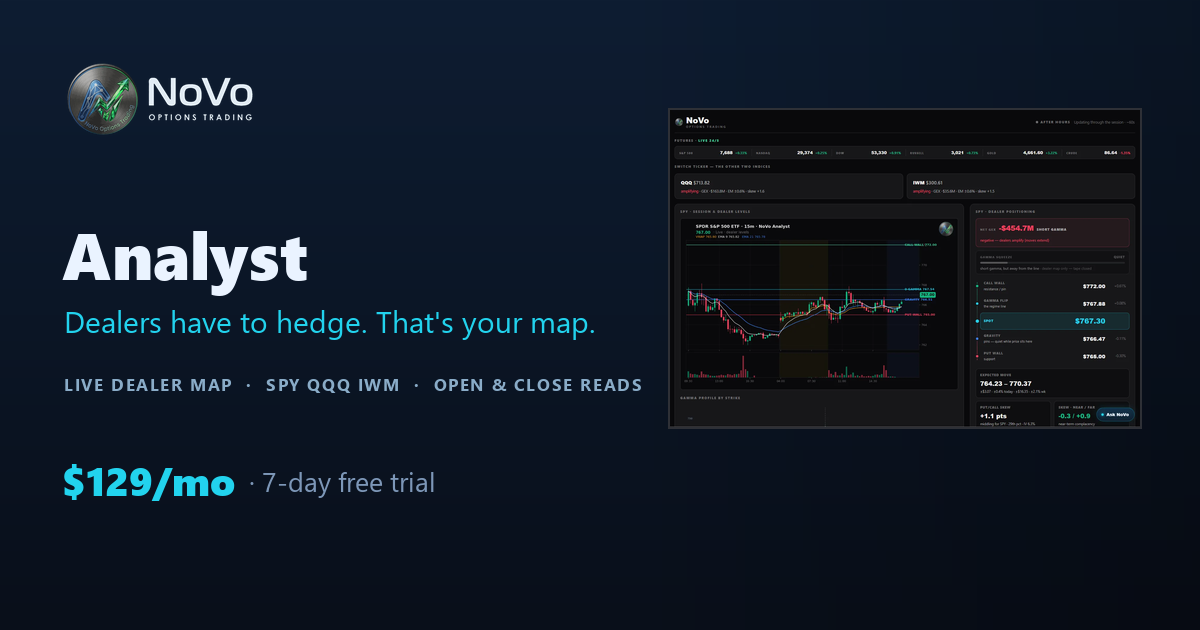
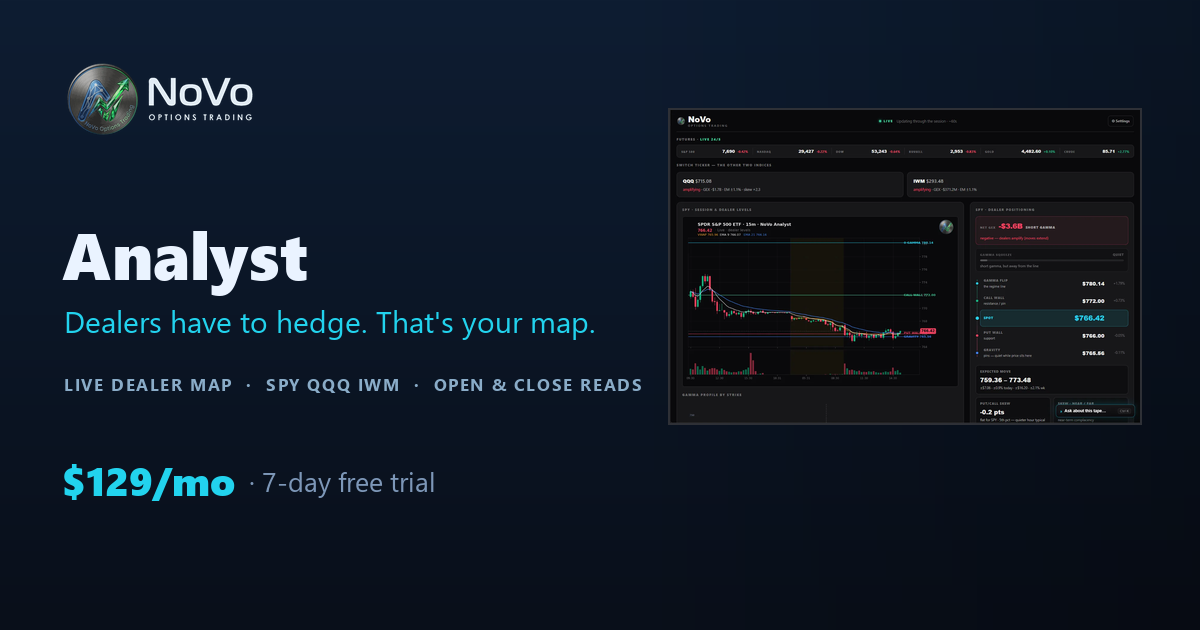
Marketing catches up with the terminal: VP/HA/split in copy, closing-bell hero shot
Jake: handle it. Today's chart features were invisible to the pages.

- HERO SHOT: fresh capture of the terminal at literally the closing
  bell (16:00:33 AFT-HRS badge) -- split view SPY|QQQ, session volume
  profile beside the labelled walls, spelled-out toolbar with SPLIT and
  VOLUME PROFILE lit, and the intel strip populated with the session's
  REAL redis values (risk-off, -42.3% tape, -0.5B GEX, VIX 14.86) --
  measured numbers, not props. Alt rewritten, ?v=4.
- /trader copy: the how-card now sells split view, Heikin Ashi, and the
  canvas controls, plus a new paragraph for the category claim only
  this product can make: the session volume profile drawn beside the
  dealer walls needs the auction AND the positioning on one pane.
  Hero chips gain VP and split/HA; the feature list's stale speed
  bullet becomes the terminal bullet.
- plans/index/analyst: terminal bullet added; the analyst upsell pitch
  carries VP + split.
- COMPARE tables (spotgamma, menthorq, unusual-whales): new 'Charting
  terminal included' row -- a clean Yes vs dash after today.
- THIRD residual speed-claim phrasing found and killed: 'chart
  10x/second' / 'up to 10 updates a second' survived both prior sweeps
  in 6 spots (trader chips + feature lists, analyst, plans, two compare
  pages). Site now has zero pre-50ms claims in any phrasing.
- og-trader: strip gains VOLUME PROFILE, card rebuilt on the new hero
  shot; og:image bumped v=8 for re-scrape.

diff --git a/public/trader.html b/public/trader.html
@@ -36,7 +36,7 @@ j.src='https://www.googletagmanager.com/gtm.js?id='+i+dl;f.parentNode.insertBefo
 <link rel="icon" href="/icon-192.png?v=7">
 <link rel="apple-touch-icon" href="/apple-touch-icon.png?v=5">
 <meta name="theme-color" content="#121316">
-<meta property="og:image" content="https://novo-options.trade/og-trader.png?v=7">
+<meta property="og:image" content="https://novo-options.trade/og-trader.png?v=8">
 <meta property="og:image:width" content="1200">
 <meta property="og:image:height" content="630">
 <meta name="twitter:card" content="summary_large_image">
@@ -44,7 +44,7 @@ j.src='https://www.googletagmanager.com/gtm.js?id='+i+dl;f.parentNode.insertBefo
 <meta name="twitter:creator" content="@0dte_NoVo">
 <meta name="twitter:title" content="NoVo | SPY, QQQ & IWM Scalping Made Easy — The Live Dealer Map">
 <meta name="twitter:description" content="Every dealer level on SPY, QQQ & IWM drawn on a live chart as it moves, with NoVo's hourly audit and its own record on the setup in front of you.">
-<meta name="twitter:image" content="https://novo-options.trade/og-trader.png?v=7">
+<meta name="twitter:image" content="https://novo-options.trade/og-trader.png?v=8">
 <link rel="canonical" href="https://novo-options.trade/trader">
 <link rel="preconnect" href="https://fonts.googleapis.com">
 <link rel="preconnect" href="https://fonts.gstatic.com" crossorigin>
@@ -59,7 +59,7 @@ j.src='https://www.googletagmanager.com/gtm.js?id='+i+dl;f.parentNode.insertBefo
       "name": "NoVo Options Trading",
       "url": "https://novo-options.trade",
       "logo": "https://novo-options.trade/novo-logo.png",
-      "image": "https://novo-options.trade/og-trader.png?v=7",
+      "image": "https://novo-options.trade/og-trader.png?v=8",
       "description": "Trader draws every dealer level on SPY, QQQ & IWM on a live chart as it moves — gamma flip, call and put walls, VWAP, expected move — with NoVo's hourly structural audit and its own logged record on the setup beside it.",
       "email": "support@novo-options.trade",
       "sameAs": [
@@ -86,7 +86,7 @@ j.src='https://www.googletagmanager.com/gtm.js?id='+i+dl;f.parentNode.insertBefo
       "applicationCategory": "FinanceApplication",
       "operatingSystem": "Web",
       "description": "SPY, QQQ & IWM options scalping made easy — an AI market analyst that draws every dealer level on your live chart, reads the tape all day, audits the structure every hour, and shows what its own record says the setup has done before.",
-      "image": "https://novo-options.trade/og-trader.png?v=7",
+      "image": "https://novo-options.trade/og-trader.png?v=8",
       "url": "https://novo-options.trade",
       "sameAs": [
         "https://x.com/0dte_NoVo",
@@ -541,7 +541,7 @@ height="0" width="0" style="display:none;visibility:hidden"></iframe></noscript>
     <p class="hero-tagline">Three tickers &nbsp;&middot;&nbsp; <b style="color:#22d3ee;">every dealer level</b>, drawn and labelled, <b>while it moves</b></p>
     <p>NoVo Options Trading is built for <b style="color:#22d3ee;">0DTE scalpers</b>, on the three biggest markets there are &mdash; SPY, QQQ, IWM &mdash; <b style="color:var(--txt1);">you pick your tape, you trade its levels</b>. On the chart nobody else makes: <b style="color:var(--txt1);">every dealer level living on the candles as they print</b> &mdash; the one TradingView wishes it had. Built for scalpers and day traders tired of staring at five charts, tracking every data stream, and <b style="color:var(--txt1);">still not knowing where the level actually is</b>.</p>
     <p style="max-width:700px;margin:20px auto 30px;font-size:clamp(16px,2.3vw,21px);font-weight:600;color:var(--txt1);line-height:1.55;">Your <b style="color:#22d3ee;">unfair advantage</b>: the dealer positioning you can&rsquo;t track by hand, <b style="color:var(--green);">recomputed every ~5 seconds and drawn on a live scalping chart</b>, with <b style="color:var(--green);">every price tick on your screen ~50&nbsp;milliseconds after it prints</b>. Gamma flip, call and put walls, VWAP and the session levels labelled in the pane &mdash; and beside them, <b style="color:var(--green);">NoVo&rsquo;s hourly audit</b> and what its own record says this setup has done before.</p>
-    <div class="hero-chips" aria-label="What Trader adds"><span class="hero-chip">Dealer levels on the chart</span><span class="hero-chip">Price up to 10&times;/second</span><span class="hero-chip">1-minute to weekly &middot; 15 years deep</span><span class="hero-chip">Draw on it &mdash; trends, fibs, your levels</span><span class="hero-chip">24/5 with session shading</span><span class="hero-chip">Hourly audit</span><span class="hero-chip">The three books, side by side</span><span class="hero-chip">Its own record on the setup</span><span class="hero-chip">Read on demand</span><span class="hero-chip">SPY / QQQ / IWM &mdash; one click apart</span></div>
+    <div class="hero-chips" aria-label="What Trader adds"><span class="hero-chip">Dealer levels on the chart</span><span class="hero-chip">Every tick, ~50 ms off the tape</span><span class="hero-chip">1-minute to weekly &middot; 15 years deep</span><span class="hero-chip">Draw on it &mdash; trends, fibs, your levels</span><span class="hero-chip">Volume profile beside the walls</span><span class="hero-chip">Split view &middot; Heikin Ashi</span><span class="hero-chip">24/5 with session shading</span><span class="hero-chip">Hourly audit</span><span class="hero-chip">The three books, side by side</span><span class="hero-chip">Its own record on the setup</span><span class="hero-chip">Read on demand</span><span class="hero-chip">SPY / QQQ / IWM &mdash; one click apart</span></div>
     <a href="#ask-novo" class="hero-ask" style="display:inline-flex;align-items:center;gap:9px;margin:0 auto 26px;padding:11px 20px;border-radius:999px;text-decoration:none;border:1px solid rgba(34,211,238,.38);background:linear-gradient(180deg,rgba(34,211,238,.10),rgba(34,211,238,.03));color:var(--txt1);font-size:14px;font-weight:600;line-height:1.35;max-width:640px;text-align:left;box-shadow:0 0 26px -10px rgba(34,211,238,.55);"><span style="font-size:17px;line-height:1;">🧭</span><span><b style="color:#22d3ee;">NoVo</b> &mdash; the AI market analyst in your pocket. The answers you can&rsquo;t find in a search engine.</span></a>
     <div class="hero-cta">
       <a href="/plans" class="btn-secondary trader-glow" style="border-color:#10b981;color:#10b981;text-decoration:none;">Subscribe to Trader &mdash; $209/mo &rarr;</a>
@@ -612,7 +612,7 @@ nav { position: relative; }
 </style>
 
     <div class="hero-mashup">
-      <div class="hm-back"><img src="/screenshots/trader-live-desk.webp?v=3" width="1905" height="1046" alt="The Trader terminal &mdash; the live SPY 1-minute chart with every level price-labelled in the pane: put wall, gravity, opening range, pre-market and prior-day levels &mdash; under the intel strip: macro regime, retail state, relative volume, tape imbalance, net GEX in a live short-gamma regime, the gamma-squeeze gauge and the Analyst Score &mdash; beside the options-flow rail with put/call volume, unusual strikes, and the aggressor-tagged sweeps-and-blocks print tape" loading="eager" fetchpriority="high" decoding="async"></div>
+      <div class="hm-back"><img src="/screenshots/trader-live-desk.webp?v=4" width="1905" height="1047" alt="The Trader terminal in split view at the close &mdash; SPY's live 1-minute chart with the session volume profile drawn beside the dealer levels (put wall, gravity, opening range, pre-market and prior-day levels, every one price-labelled), QQQ in the second pane against its own put wall and gravity, the full toolbar (timeframes 1m to weekly, drawing tools, Heikin Ashi, volume profile, split view, canvas settings) and the intel strip: macro regime, retail state, relative volume, tape imbalance, net GEX, gamma squeeze, Analyst Score and VIX" loading="eager" fetchpriority="high" decoding="async"></div>
       <div class="hm-fan">
         <div class="hm-card" style="transform:rotate(-11deg) ;z-index:4;"><img src="/screenshots/trader-live-chart.webp?v=3" width="529" height="1046" alt="Trader on a phone &mdash; the chart tab &mdash; the live 1-minute chart with the put wall, gravity, opening-range and pre-market levels drawn and the short-gamma read pinned to the pane, with Market Intel beneath: VIX, macro regime, retail state, relative volume, tape imbalance, net GEX, the gamma-squeeze bar and the Analyst Score" loading="lazy" decoding="async"></div>
         <div class="hm-card" style="transform:rotate(9deg) translateY(16px);z-index:3;margin-left:-46px;"><img src="/screenshots/trader-live-analysis.webp?v=2" width="500" height="1047" alt="Trader on a phone &mdash; the analysis tab &mdash; the top-of-hour structural audit with its bias, identified levels, observed patterns and written thesis, NoVo's pre-market primer, and 'The Line' level-break playbook" loading="lazy" decoding="async"></div>
@@ -789,7 +789,7 @@ nav { position: relative; }
     <p class="section-sub">Four things happen on one screen, all session: the dealer levels get drawn on the tape as they move, the hour gets audited, the record gets shown beside the setup, and you can ask for a fresh read any time you want one.</p>
     <div class="how-card" style="margin-bottom:20px;">
       <div class="how-num">YOUR TAPE</div>
-      <h3>Pick SPY, QQQ or IWM. The rest is drawn for you, every ~5 seconds.</h3> <p>Three of the most liquid options markets anywhere, and every signal layer tuned for these three and nothing else. The structure recomputes every ~5 seconds; the price under it carries every tick, within ~50 milliseconds of the print &mdash; on a live candle chart, not a table of numbers to translate, and not a morning PDF that stopped being true at the open.</p> <p>And it is a real charting terminal: <strong>one click flips the ticker</strong>, six timeframes run from 1-minute scalps to <strong>fifteen years of weekly bars</strong>, extended hours are shaded so the overnight tape reads at a glance, volume sits under the candles, and your own <strong>trendlines, fibs and levels</strong> draw straight onto the dealer map and stay where you left them, per ticker. The chart trades 24/5 &mdash; Sunday night included &mdash; because the market does.</p>
+      <h3>Pick SPY, QQQ or IWM. The rest is drawn for you, every ~5 seconds.</h3> <p>Three of the most liquid options markets anywhere, and every signal layer tuned for these three and nothing else. The structure recomputes every ~5 seconds; the price under it carries every tick, within ~50 milliseconds of the print &mdash; on a live candle chart, not a table of numbers to translate, and not a morning PDF that stopped being true at the open.</p> <p>And it is a real charting terminal: <strong>one click flips the ticker</strong>, six timeframes run from 1-minute scalps to <strong>fifteen years of weekly bars</strong>, extended hours are shaded so the overnight tape reads at a glance, volume sits under the candles, and your own <strong>trendlines, fibs and levels</strong> draw straight onto the dealer map and stay where you left them, per ticker. <strong>Split view</strong> puts a second index beside your chart against its own dealer structure, <strong>Heikin Ashi</strong> is one click, and the canvas is yours &mdash; log or linear scale, zoom anchored to the cursor or pinned to the live price. The chart trades 24/5 &mdash; Sunday night included &mdash; because the market does.</p> <p>Then the layer no charting platform has: the <strong>session volume profile drawn beside the dealer walls</strong>. Where the day's volume actually traded, next to where the dealers are positioned &mdash; when the profile&rsquo;s point of control and the put wall agree on a price, you see it on one pane, live. That overlay requires both halves &mdash; the auction and the positioning &mdash; and only this terminal has both.</p>
     </div>
     <div class="how-grid-2">
       <div class="how-card">
@@ -1090,7 +1090,7 @@ nav { position: relative; }
 <div class="price-roi" style="color:var(--green);">All-in &mdash; market data included, nothing else to subscribe to.</div>
       <ul class="price-features" style="column-count:2;column-gap:44px;max-width:820px;margin-left:auto;margin-right:auto;text-align:left;">
         <li>The live dealer map &mdash; recomputed every ~5 seconds, streaming on a candle chart</li>
-        <li>Price at tape speed &mdash; up to 10 updates a second</li>
+        <li>Full charting terminal &mdash; <b>session volume profile</b>, Heikin Ashi, split view, drawings, 1m&ndash;weekly</li>
         <li><b style="color:#22d3ee;">Includes Analyst</b> — daily reads + the live SPY/QQQ/IWM dealer dashboard</li>
         <li>Fast lane — dealer read every 5 seconds, every price tick within ~50 ms</li>
         <li>Every level labelled with its price, in the pane</li>

diff --git a/public/compare-novo-vs-menthorq.html b/public/compare-novo-vs-menthorq.html
@@ -366,7 +366,7 @@ height="0" width="0" style="display:none;visibility:hidden"></iframe></noscript>
 </div>
 
 <div class="container sec" style="padding-top:14px;">
-  <div class="prose"><p>Both tools map dealer options positioning &mdash; net gamma exposure (GEX), the gamma-flip level, and the call/put walls that tend to define where price pins and breaks. And both data tiers cost <b>exactly $129/mo</b>, which makes this the closest like-for-like comparison in the category. MenthorQ is the broader product and puts its levels on more platforms; NoVo covers <b>SPY, QQQ and IWM only</b>, refreshes every 60 seconds, and is the only one of the two that <b>keeps a public score</b> of what its own map has meant. Here&rsquo;s an honest, specific comparison.</p><div class="cmp-wrap"><table class="cmp"><thead><tr><th class="rowh"></th><th>NoVo</th><th>MenthorQ</th></tr></thead><tbody><tr><th class="rowh">Focus</th><td class="us">0DTE scalping on SPY / QQQ / IWM</td><td>Dealer levels + trading models, broad market</td></tr><tr><th class="rowh">Tickers</th><td class="us">SPY, QQQ, IWM</td><td>Stocks, ETFs, indices, futures, crypto</td></tr><tr><th class="rowh">Data-tier price</th><td class="us">$129/mo (Analyst)</td><td>$129/mo (Premium) &rarr; $349/mo (Pro)</td></tr><tr><th class="rowh">Dealer-map refresh</th><td class="us"><span class="yes">Every 60 seconds</span> &mdash; 5 seconds on Trader</td><td>TradingView levels 14+ times a day; end-of-day twice daily</td></tr><tr><th class="rowh">A live streaming map</th><td class="us"><span class="yes">Yes</span> &mdash; on a live candle chart</td><td><span class="no">No</span> &mdash; analytics only</td></tr><tr><th class="rowh">Published track record</th><td class="us"><span class="yes">Yes</span> &mdash; scored, sample size shown</td><td>&mdash;</td></tr><tr><th class="rowh">Charting integrations</th><td class="us">Free TradingView script</td><td>10+ &mdash; TradingView, NinjaTrader and more</td></tr><tr><th class="rowh">Education &amp; community</th><td class="us">The NoVo Journal &mdash; 1,000+ articles</td><td>350+ academy lessons; mentorship on Pro</td></tr><tr><th class="rowh">An AI analyst that reads the map</th><td class="us"><span class="yes">NoVo</span> &mdash; answers off the live map, cites what it used, and states the sample size behind any rate it quotes. Included with every plan.</td><td>&mdash;</td></tr><tr><th class="rowh">What happened last time dealers sat like this</th><td class="us"><span class="yes">Scored analogues and base rates</span> &mdash; the same setup looked up across the logged sessions, with n shown on every figure</td><td>&mdash;</td></tr><tr><th class="rowh">Best for</th><td class="us">0DTE index scalpers who want the map <i>live</i> on the tape</td><td>Traders wanting levels across many platforms, plus coaching</td></tr></tbody></table></div><div style="display:flex;flex-wrap:wrap;gap:10px;margin:20px 0 6px;"><a class="btn btn-p" href="/plans" style="display:inline-flex;align-items:center;gap:8px;font-weight:800;font-size:14.5px;text-decoration:none;padding:12px 20px;border-radius:10px;background:linear-gradient(180deg,#34d399,#10b981);color:#04120c;">See the map live &mdash; Trader $209/mo, 7-day money-back &rarr;</a><a class="btn btn-s" href="/plans" style="display:inline-flex;align-items:center;gap:8px;font-weight:700;font-size:14.5px;text-decoration:none;padding:12px 20px;border-radius:10px;background:transparent;color:#eaf3ff;border:1px solid #2e3036;">Just the read &mdash; 7-day free trial, $129/mo &rarr;</a></div><h2>What MenthorQ does well</h2><p>Breadth and reach. MenthorQ models levels across stocks, ETFs, indices, futures and crypto rather than three index ETFs, and it ships <b>10+ integrations</b> &mdash; TradingView, NinjaTrader and others &mdash; so the levels land on whatever chart you already trade. It pairs that with a large education library (350+ academy lessons and guides) and an active community, and discounts the first month to $39. If you trade a wide watchlist across several platforms, that covers ground NoVo does not.</p><p>One thing worth knowing before you upgrade: MenthorQ&rsquo;s <b>$349 Pro tier is mostly coaching</b> &mdash; mentorship meetings, live trading sessions, a monthly strategy session and recordings &mdash; rather than a better or faster map. If you assumed the step up buys more data, check that against what you actually need.</p><h2>Where NoVo is different</h2><p>Two things, and the first is <b>cadence</b>. NoVo republishes the full dealer map <b>every 60 seconds</b> on the Analyst dashboard, and the Trader dashboard reads it <b>every 5 seconds</b> with a chart that carries every tick within ~50 milliseconds. MenthorQ&rsquo;s TradingView intraday indicator updates <b>14+ times per day</b>, the end-of-day version twice daily. For swing and positional work that is plenty. For 0DTE, where the flip can move through your strike inside a single candle, it is a different instrument.</p><p>The second is that NoVo <b>keeps score</b>. MenthorQ shows you the level; NoVo shows you the level and what it has resolved to before. NoVo also publishes a <a href="/track-record">scored track record</a>: <span data-live-sessions>1,031</span> sessions graded across 23,953 snapshots, with the sample size on every claim, including the unflattering ones. The figures and the method are on the <a href="/track-record">track record</a>. Ask any tool you are comparing for its hit rate <i>and</i> the n behind it.</p><h2>Which should you pick</h2><p>If you want dealer levels on many tickers, on the charting platform you already use, with a deep education library, MenthorQ is the broader buy at the same price. If you scalp 0DTE on SPY, QQQ or IWM and want a map that moves at the speed the tape moves &mdash; with a public score on what its levels have actually meant &mdash; NoVo is the closer fit. They are less two versions of one product than two different answers to &ldquo;what should $129 buy me?&rdquo; See <a href="/analyst">Analyst</a> for the read, or <a href="/trader">Trader</a> for the same map streaming at tape speed.</p></div>
+  <div class="prose"><p>Both tools map dealer options positioning &mdash; net gamma exposure (GEX), the gamma-flip level, and the call/put walls that tend to define where price pins and breaks. And both data tiers cost <b>exactly $129/mo</b>, which makes this the closest like-for-like comparison in the category. MenthorQ is the broader product and puts its levels on more platforms; NoVo covers <b>SPY, QQQ and IWM only</b>, refreshes every 60 seconds, and is the only one of the two that <b>keeps a public score</b> of what its own map has meant. Here&rsquo;s an honest, specific comparison.</p><div class="cmp-wrap"><table class="cmp"><thead><tr><th class="rowh"></th><th>NoVo</th><th>MenthorQ</th></tr></thead><tbody><tr><th class="rowh">Focus</th><td class="us">0DTE scalping on SPY / QQQ / IWM</td><td>Dealer levels + trading models, broad market</td></tr><tr><th class="rowh">Tickers</th><td class="us">SPY, QQQ, IWM</td><td>Stocks, ETFs, indices, futures, crypto</td></tr><tr><th class="rowh">Data-tier price</th><td class="us">$129/mo (Analyst)</td><td>$129/mo (Premium) &rarr; $349/mo (Pro)</td></tr><tr><th class="rowh">Dealer-map refresh</th><td class="us"><span class="yes">Every 60 seconds</span> &mdash; 5 seconds on Trader</td><td>TradingView levels 14+ times a day; end-of-day twice daily</td></tr><tr><th class="rowh">A live streaming map</th><td class="us"><span class="yes">Yes</span> &mdash; on a live candle chart</td><td><span class="no">No</span> &mdash; analytics only</td></tr><tr><th class="rowh">Charting terminal included</th><td class="us"><span class="yes">Yes</span> &mdash; 1m&ndash;weekly candles, session volume profile beside the dealer walls, Heikin Ashi, split view, your own drawings</td><td>No &mdash; levels export to YOUR platform</td></tr><tr><th class="rowh">Published track record</th><td class="us"><span class="yes">Yes</span> &mdash; scored, sample size shown</td><td>&mdash;</td></tr><tr><th class="rowh">Charting integrations</th><td class="us">Free TradingView script</td><td>10+ &mdash; TradingView, NinjaTrader and more</td></tr><tr><th class="rowh">Education &amp; community</th><td class="us">The NoVo Journal &mdash; 1,000+ articles</td><td>350+ academy lessons; mentorship on Pro</td></tr><tr><th class="rowh">An AI analyst that reads the map</th><td class="us"><span class="yes">NoVo</span> &mdash; answers off the live map, cites what it used, and states the sample size behind any rate it quotes. Included with every plan.</td><td>&mdash;</td></tr><tr><th class="rowh">What happened last time dealers sat like this</th><td class="us"><span class="yes">Scored analogues and base rates</span> &mdash; the same setup looked up across the logged sessions, with n shown on every figure</td><td>&mdash;</td></tr><tr><th class="rowh">Best for</th><td class="us">0DTE index scalpers who want the map <i>live</i> on the tape</td><td>Traders wanting levels across many platforms, plus coaching</td></tr></tbody></table></div><div style="display:flex;flex-wrap:wrap;gap:10px;margin:20px 0 6px;"><a class="btn btn-p" href="/plans" style="display:inline-flex;align-items:center;gap:8px;font-weight:800;font-size:14.5px;text-decoration:none;padding:12px 20px;border-radius:10px;background:linear-gradient(180deg,#34d399,#10b981);color:#04120c;">See the map live &mdash; Trader $209/mo, 7-day money-back &rarr;</a><a class="btn btn-s" href="/plans" style="display:inline-flex;align-items:center;gap:8px;font-weight:700;font-size:14.5px;text-decoration:none;padding:12px 20px;border-radius:10px;background:transparent;color:#eaf3ff;border:1px solid #2e3036;">Just the read &mdash; 7-day free trial, $129/mo &rarr;</a></div><h2>What MenthorQ does well</h2><p>Breadth and reach. MenthorQ models levels across stocks, ETFs, indices, futures and crypto rather than three index ETFs, and it ships <b>10+ integrations</b> &mdash; TradingView, NinjaTrader and others &mdash; so the levels land on whatever chart you already trade. It pairs that with a large education library (350+ academy lessons and guides) and an active community, and discounts the first month to $39. If you trade a wide watchlist across several platforms, that covers ground NoVo does not.</p><p>One thing worth knowing before you upgrade: MenthorQ&rsquo;s <b>$349 Pro tier is mostly coaching</b> &mdash; mentorship meetings, live trading sessions, a monthly strategy session and recordings &mdash; rather than a better or faster map. If you assumed the step up buys more data, check that against what you actually need.</p><h2>Where NoVo is different</h2><p>Two things, and the first is <b>cadence</b>. NoVo republishes the full dealer map <b>every 60 seconds</b> on the Analyst dashboard, and the Trader dashboard reads it <b>every 5 seconds</b> with a chart that carries every tick within ~50 milliseconds. MenthorQ&rsquo;s TradingView intraday indicator updates <b>14+ times per day</b>, the end-of-day version twice daily. For swing and positional work that is plenty. For 0DTE, where the flip can move through your strike inside a single candle, it is a different instrument.</p><p>The second is that NoVo <b>keeps score</b>. MenthorQ shows you the level; NoVo shows you the level and what it has resolved to before. NoVo also publishes a <a href="/track-record">scored track record</a>: <span data-live-sessions>1,031</span> sessions graded across 23,953 snapshots, with the sample size on every claim, including the unflattering ones. The figures and the method are on the <a href="/track-record">track record</a>. Ask any tool you are comparing for its hit rate <i>and</i> the n behind it.</p><h2>Which should you pick</h2><p>If you want dealer levels on many tickers, on the charting platform you already use, with a deep education library, MenthorQ is the broader buy at the same price. If you scalp 0DTE on SPY, QQQ or IWM and want a map that moves at the speed the tape moves &mdash; with a public score on what its levels have actually meant &mdash; NoVo is the closer fit. They are less two versions of one product than two different answers to &ldquo;what should $129 buy me?&rdquo; See <a href="/analyst">Analyst</a> for the read, or <a href="/trader">Trader</a> for the same map streaming at tape speed.</p></div>
   <p class="disclaim">Comparison for information only — not financial advice. Competitor details and prices verified against public sources in August 2026 and may change; verify with each provider. NoVo is our product.</p>
 </div>
 

diff --git a/public/compare-novo-vs-spotgamma.html b/public/compare-novo-vs-spotgamma.html
@@ -373,7 +373,7 @@ height="0" width="0" style="display:none;visibility:hidden"></iframe></noscript>
 <tr><th class="rowh">Tickers</th><td class="us">SPY, QQQ, IWM</td><td>Indices + thousands of equities (Equity Hub)</td></tr>
 <tr><th class="rowh">Dealer map<br><span style="font-weight:400;color:var(--txt3);font-size:12px">net GEX, flip, walls, expected move</span></th><td class="us"><span class="yes">Yes</span> — live</td><td><span class="yes">Yes</span> — Key Levels, TRACE</td></tr>
 <tr><th class="rowh">Live options flow</th><td class="us"><span class="yes">Yes</span> — in-house tape (Analyst)</td><td>HIRO — typically the top (Alpha) tier</td></tr>
-<tr><th class="rowh">Dealer-map refresh</th><td class="us"><span class="yes">Every 60 seconds</span> &mdash; 5 seconds on Trader, chart 10&times;/second</td><td>Key Levels and TRACE, refreshed far less often</td></tr><tr><th class="rowh">A live streaming map</th><td class="us"><span class="yes">Yes</span> — on a live candle chart</td><td class="no">No — analytics only</td></tr>
+<tr><th class="rowh">Dealer-map refresh</th><td class="us"><span class="yes">Every 60 seconds</span> &mdash; 5 seconds on Trader, every tick within ~50&nbsp;ms</td><td>Key Levels and TRACE, refreshed far less often</td></tr><tr><th class="rowh">A live streaming map</th><td class="us"><span class="yes">Yes</span> — on a live candle chart</td><td class="no">No — analytics only</td></tr><tr><th class="rowh">Charting terminal included</th><td class="us"><span class="yes">Yes</span> &mdash; 1m&ndash;weekly candles, session volume profile beside the dealer walls, Heikin Ashi, split view, your own drawings</td><td>&mdash;</td></tr>
 
 <tr><th class="rowh">Data-tier price</th><td class="us">$129/mo (Analyst)</td><td>$89/mo (Standard) → ~$299 (Alpha)</td></tr>
 <tr><th class="rowh">Published track record</th><td class="us"><span class="yes"><span data-live-sessions>1,031</span> sessions scored</span> since 2020 &mdash; 23,953 snapshots, sample size on every claim</td><td>&mdash;</td></tr><tr><th class="rowh">An AI analyst that reads the map</th><td class="us"><span class="yes">NoVo</span> &mdash; answers off the live map, cites what it used, and states the sample size behind any rate it quotes. Included with every plan.</td><td>&mdash;</td></tr><tr><th class="rowh">What happened last time dealers sat like this</th><td class="us"><span class="yes">Scored analogues and base rates</span> &mdash; the same setup looked up across the logged sessions, with n shown on every figure</td><td>&mdash;</td></tr><tr><th class="rowh">Best for</th><td class="us">0DTE index scalpers who want the map <i>live</i> on the tape</td><td>Dealer gamma across many single-name stocks</td></tr>

diff --git a/public/analyst.html b/public/analyst.html
@@ -833,7 +833,7 @@ height="0" width="0" style="display:none;visibility:hidden"></iframe></noscript>
     <div style="background:linear-gradient(135deg,rgba(16,185,129,0.06),var(--navy2) 60%);border:1px solid rgba(16,185,129,0.25);border-radius:14px;padding:32px 34px;text-align:center;box-shadow:0 6px 24px rgba(0,0,0,0.28);">
       <div style="font-size:11px;font-weight:700;letter-spacing:3px;text-transform:uppercase;color:var(--green);margin-bottom:10px;">Want it faster?</div>
       <h3 style="font-size:clamp(20px,3vw,26px);font-weight:800;color:var(--txt1);letter-spacing:-0.5px;margin-bottom:10px;">Trader is the cockpit.</h3>
-      <p style="font-size:15px;color:var(--txt2);line-height:1.7;max-width:600px;margin:0 auto 22px;">When you want the levels drawn <b style="color:var(--txt1);">on the tape</b> as they move &mdash; on a full charting terminal &mdash; six timeframes, fifteen years deep, your own drawings on the map &mdash; with the audit and the record beside the candles. The desk is where you think; this is where you act.</p>
+      <p style="font-size:15px;color:var(--txt2);line-height:1.7;max-width:600px;margin:0 auto 22px;">When you want the levels drawn <b style="color:var(--txt1);">on the tape</b> as they move &mdash; on a full charting terminal &mdash; six timeframes fifteen years deep, the <b style="color:var(--txt1);">session volume profile drawn beside the dealer walls</b>, split view, Heikin Ashi, your own drawings on the map &mdash; with the audit and the record beside the candles. The desk is where you think; this is where you act.</p>
       <a href="/trader" class="btn-secondary" style="border-color:#10b981;color:#10b981;">Get Trader &mdash; $209/mo &rarr;</a>
     </div>
   </div>
@@ -918,7 +918,7 @@ height="0" width="0" style="display:none;visibility:hidden"></iframe></noscript>
         <div class="price-roi" style="color:var(--green);">When you want the read drawn on the tape, not just written down.</div>
         <ul class="price-features">
           <li><b>Includes Analyst</b> &mdash; the full dealer map + every read</li>
-          <li><b>The dealer read at ~5 seconds</b>, the scalping chart at 10 updates a second</li>
+          <li><b>The dealer read at ~5 seconds</b>, every price tick on the chart within ~50 ms</li>
           <li>Analyst Score &mdash; how the setup in front of you grades, live</li>
           <li>Every dealer level labelled on the chart &mdash; flip, walls, VWAP</li>
           <li><b>A full charting terminal</b> &mdash; 1-minute to weekly, ~15 years of history, your drawings, session shading</li>

diff --git a/public/plans.html b/public/plans.html
@@ -391,11 +391,12 @@ height="0" width="0" style="display:none;visibility:hidden"></iframe></noscript>
       <div class="roi">The map recomputed every ~5 seconds and streamed on a live candle chart &mdash; against 60 seconds on Analyst &mdash; with every price tick within ~50 milliseconds of the tape, with a structural audit at the top of every hour, and NoVo&rsquo;s own scored record on the setup in front of you &mdash; sample size shown. Market data included.</div>
       <div style="margin:2px 0 8px;padding:11px 13px;background:rgba(16,185,129,0.06);border:1px solid rgba(16,185,129,0.22);border-radius:9px;font-size:12.5px;line-height:1.5;color:var(--txt2);">Assemble it piecemeal elsewhere: a dealer-flow/GEX subscription <b style="color:var(--txt1);">alone</b> runs roughly <b style="color:var(--txt1);">$90&ndash;$300/mo</b> depending on tier &mdash; and not one of them will tell you how often its own read was right. <b style="color:var(--green);">NoVo publishes its record, sample size shown, for $209.</b></div>
       <ul class="feats">
-        <li class="chk"><b>The dealer read at ~5 seconds</b>, and the scalping chart streaming at <b>10 updates a second</b> — SpotGamma’s $299 tier, OptionsDepth’s $249 tier and Unusual Whales’ top tier were all refreshing once a minute when we last checked in August 2026</li>
+        <li class="chk"><b>The dealer read at ~5 seconds</b>, and the chart carrying <b>every tick within ~50 milliseconds</b> — SpotGamma’s $299 tier, OptionsDepth’s $249 tier and Unusual Whales’ top tier were all refreshing once a minute when we last checked in August 2026</li>
         <li class="chk" style="opacity:.72;font-size:12.5px;"><b>On those comparisons</b> &mdash; competitor details and prices verified against public sources in August 2026 and may change; verify with each provider.</li>
         <li class="chk"><b>Lock in your price</b> — your rate never rises while your subscription stays active</li>
         <li class="chk"><b>Includes Analyst</b> — daily reads + the live SPY/QQQ/IWM dealer dashboard</li>
         <li class="chk"><b>Fast lane</b> — dealer read every 5 seconds, every price tick within ~50 ms</li>
+        <li class="chk"><b>Charting terminal</b> — session volume profile beside the walls, Heikin Ashi, split view, 1m–weekly</li>
         <li class="chk">Analyst Score &mdash; one 0&ndash;100 grade of setup quality</li>
         <li class="chk">Live tape + full options chain — all three tickers, one click apart</li>
         

diff --git a/public/compare-novo-vs-unusual-whales.html b/public/compare-novo-vs-unusual-whales.html
@@ -373,7 +373,7 @@ height="0" width="0" style="display:none;visibility:hidden"></iframe></noscript>
 <tr><th class="rowh">What it shows</th><td class="us">Net GEX, gamma flip, call/put walls, expected move</td><td>Real-time options flow, dark pool, congress/insider trades</td></tr>
 <tr><th class="rowh">Tickers</th><td class="us">SPY, QQQ, IWM</td><td>The whole market</td></tr>
 <tr><th class="rowh">Dealer-positioning map</th><td class="us"><span class="yes">Yes</span> — the core product</td><td>Some GEX tooling — not the focus</td></tr>
-<tr><th class="rowh">A live streaming map</th><td class="us"><span class="yes">Yes</span> — on a live candle chart</td><td><span class="yes">Yes</span> — flow feed, not a dealer map</td></tr>
+<tr><th class="rowh">A live streaming map</th><td class="us"><span class="yes">Yes</span> — on a live candle chart</td><td><span class="yes">Yes</span> — flow feed, not a dealer map</td></tr><tr><th class="rowh">Charting terminal included</th><td class="us"><span class="yes">Yes</span> &mdash; 1m&ndash;weekly candles, session volume profile beside the dealer walls, Heikin Ashi, split view, your own drawings</td><td>Flow charts &mdash; no dealer map on the candles</td></tr>
 <tr><th class="rowh">Dealer-map refresh</th><td class="us"><span class="yes">Every 60 seconds</span> — 5 seconds on Trader</td><td>SPX dealer exposure: 10 minutes (Pro), 1 minute (Max)</td></tr>
 <tr><th class="rowh">Price</th><td class="us">$129 / $209 mo</td><td>$50 Basic / $75 Pro / $120 Max</td></tr>
 <tr><th class="rowh">Published track record</th><td class="us"><span class="yes"><span data-live-sessions>1,031</span> sessions scored</span> since 2020 &mdash; 23,953 snapshots, sample size on every claim</td><td>&mdash;</td></tr><tr><th class="rowh">An AI analyst that reads the map</th><td class="us"><span class="yes">NoVo</span> &mdash; answers off the live map, cites what it used, and states the sample size behind any rate it quotes. Included with every plan.</td><td>&mdash;</td></tr><tr><th class="rowh">What happened last time dealers sat like this</th><td class="us"><span class="yes">Scored analogues and base rates</span> &mdash; the same setup looked up across the logged sessions, with n shown on every figure</td><td>&mdash;</td></tr><tr><th class="rowh">Best for</th><td class="us">0DTE index scalpers who trade the dealer map</td><td>Flow + congressional-trade intel across everything</td></tr>

diff --git a/public/compare-novo-vs-option-alpha.html b/public/compare-novo-vs-option-alpha.html
@@ -372,7 +372,7 @@ height="0" width="0" style="display:none;visibility:hidden"></iframe></noscript>
 <tr><th class="rowh">Approach</th><td class="us">Discretionary — you read the structure and decide off the dealer map</td><td>Systematic — automated no-code bots on your rules</td></tr>
 <tr><th class="rowh">Signal basis</th><td class="us">Live dealer positioning (GEX, flip, walls, expected move)</td><td>Price / technical rules you configure</td></tr>
 <tr><th class="rowh">Dealer-positioning data</th><td class="us"><span class="yes">Yes</span></td><td class="no">No</td></tr>
-<tr><th class="rowh">Dealer-map refresh</th><td class="us"><span class="yes">Every 60 seconds</span> &mdash; 5 seconds on Trader, chart 10&times;/second</td><td>No dealer-positioning data</td></tr>
+<tr><th class="rowh">Dealer-map refresh</th><td class="us"><span class="yes">Every 60 seconds</span> &mdash; 5 seconds on Trader, every tick within ~50&nbsp;ms</td><td>No dealer-positioning data</td></tr>
 
 
 <tr><th class="rowh">Focus</th><td class="us">0DTE SPY / QQQ / IWM scalping</td><td>Systematic options strategies (spreads, condors, 0DTE)</td></tr>

diff --git a/public/index.html b/public/index.html
@@ -785,6 +785,7 @@ height="0" width="0" style="display:none;visibility:hidden"></iframe></noscript>
         <li>The live dealer map &mdash; streaming, on a candle chart</li>
         <li><b style="color:#22d3ee;">Includes Analyst</b> — daily reads + the live SPY/QQQ/IWM dealer dashboard</li>
         <li>Fast lane &mdash; the dealer map redrawn every ~5 seconds, every price tick within ~50 ms</li>
+        <li>A full charting terminal &mdash; session volume profile beside the walls, Heikin Ashi, split view</li>
         <li>Live tape + full options chain &mdash; all three tickers, one click apart</li>
         <li>Every dealer level labelled on the chart &mdash; flip, call and put walls, VWAP</li>
         <li class="chk"><b>A full charting terminal</b> &mdash; 1-minute to weekly, ~15 years of history, drawings, volume, session shading</li>

diff --git a/scripts/make-og-cards.py b/scripts/make-og-cards.py
@@ -198,7 +198,7 @@ tframed = Image.new('RGBA', (_tf.width, 418), (0, 0, 0, 0))
 tframed.paste(_tf, (0, (418 - _tf.height) // 2))
 
 card('og-trader.png', 'Trader', 'The cockpit. Every dealer level,' + chr(10) + 'living on the candles.',
-     'CHARTING TERMINAL  ·  1m–WEEKLY  ·  THE THREE BOOKS  ·  24/5',
+     'CHARTING TERMINAL  ·  VOLUME PROFILE  ·  THE THREE BOOKS  ·  24/5',
      '$209/mo', '· includes Analyst', (0x34, 0xd3, 0x99), tframed)
 
 # ---- Plans: four lanes, no execution claims (replaces the hand-made three-lane card whose Trader
